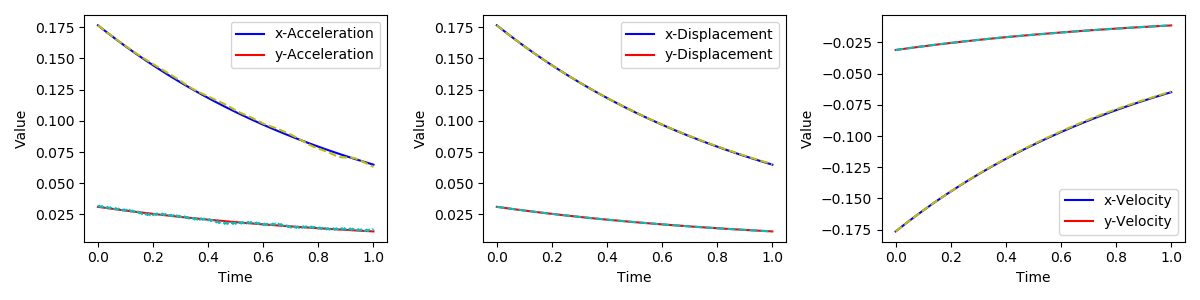
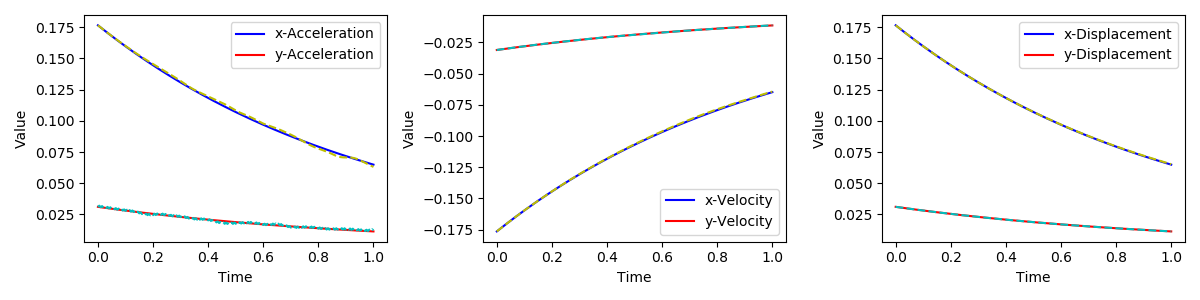
update doc

diff --git a/docs/src/tu_customop.md b/docs/src/tu_customop.md
@@ -1,4 +1,4 @@
-# Custom Operators
+# Advanced: Custom Operators
 
 !!! note
     As a reminder, there are many built-in custom operators in `deps/CustomOps` and they are good resources for understanding custom operators. The following is a step-by-step instruction on how custom operators are implemented. 
@@ -115,34 +115,14 @@ It is recommended that you use the `cmake`, `make` and `gcc` provided by `ADCME`
 | `ADCME.CMAKE` | Cmake binary location                 |
 | `ADCME.MAKE`  | Make binary location                  |
 
-- Make a `build` directory in bash.
-```bash
-mkdir build
-cd build
-```
-- Configure `CMakeLists.txt` files.
-```bash
-cmake ..
-```
-or use a safer way 
+ADCME will properly handle the environment variable for you. So we always recommend you to compile custom operators using ADCME functions:
+
+First `cd` into your custom operator director (where `CMakeLists.txt` is located), create a directory `build` if it doesn't exist, `cd` into `build`, and do 
+
 ```julia-repl
 julia> using ADCME
 julia> ADCME.cmake()
 ```
-This step requires `Conda` and `PyCall` be properly installed. Try the following if necessary
-```julia
-julia> pkg
-pkg> add Conda
-pkg> add PyCall
-```
-- Build. 
-```bash
-make -j
-```
-
-!!! note
-    If the system `make` or `cmake` command is not compatible, try the pre-installed ADCME `make` located at `ADCME.MAKE` or `cmake` located at `ADCME.CMAKE`. 
-
 Based on your operation system, you will create `libMySparseSolver.{so,dylib,dll}`. This will be the dynamic library to link in `TensorFlow`. 
 
 **Step 4: Test**
@@ -151,13 +131,8 @@ Finally, you could use `gradtest.jl` to test the operator and its gradients (spe
 
 ![custom_op](assets/custom_op.png)
 
-
 !!! info 
-    If the process fails, it is most probable the GCC compiler is not compatible with which was used to compile `libtensorflow_framework.{so,dylib}`. Using the built-in `cmake` and `make` will alleviate this problem in most cases. In the Linux system, you can check the compiler using 
-```bash
-readelf -p .comment libtensorflow_framework.so
-```
-Compatibility issues are frustrating. We hope you can submit an issue to ADCME developers; we are happy to resolve the compatibility issue and improve the robustness of ADCME.
+    If the process fails, it is most probable the GCC compiler is not compatible with which was used to compile `libtensorflow_framework.{so,dylib}`. ADCME downloads a  GCC compiler via Conda for you. However, if you follow the above steps but encounter some problems, we are happy to resolve the compatibility issue and improve the robustness of ADCME. Submitting an issue is welcome.
 
 
 ## GPU Operators
@@ -310,8 +285,6 @@ The output is
 ```
 We can see that the tensors depending on `u` are also aware of the assign operator. The complete programs can be downloaded here: [CMakeLists.txt](https://kailaix.github.io/ADCME.jl/dev/codes/mutable/CMakeLists.txt), [MyAssign.cpp](https://kailaix.github.io/ADCME.jl/dev/codes/mutable/MyAssign.cpp), [gradtest.jl](https://kailaix.github.io/ADCME.jl/dev/codes/mutable/gradtest.jl).
 
-
-
 ### Third-party Plugins
 
 ADCME also allows third-party custom operators hosted on Github. To build your own custom operators, implement your own custom operators in a Github repository. The root directory of the repository should have the following files
@@ -345,3 +318,47 @@ op = load_system_op("OTNetwork")
 ```
 
 1. https://on-demand.gputechconf.com/ai-conference-2019/T1-3_Minseok%20Lee_Adding%20custom%20CUDA%20C++%20Operations%20in%20Tensorflow%20for%20boosting%20BERT%20Inference.pdf)
+
+
+
+## Troubleshooting
+
+Here are some common errors you might encounter during custom operator compilation:
+
+**Q: The cmake output for the Julia path is empty.**
+
+```text
+Julia=
+```
+
+**A:** Check whether `which julia` outputs the Julia location you are using. 
+
+**Q: The cmake output for Python path, Eigen path, etc., is empty.**
+
+```text
+Python path=
+EIGEN_INC=
+TF_INC=
+TF_ABI=
+TF_LIB_FILE=
+```
+
+**A:** Update ADCME to the latest version and check whether or not the ADCME compiler string is empty
+
+```julia
+using ADCME
+ADCME.__STR__
+```
+
+**Q: Julia package precompilation errors that seem not linked to ADCME.**
+
+**A:** Remove the corresponding packages using `using Pkg; Pkg.rm(XXX)` and reinstall those packages. 
+
+**Q: Precompilation error linked to ADCME**
+
+```text
+ERROR: LoadError: ADCME is not properly built; run `Pkg.build("ADCME")` to fix the problem.
+```
+
+**A:** Build ADCME using `Pkg.build("ADCME")`. Exit Julia and open Julia again. Check whether `deps.jl` exists in the `deps` directory of your Julia package (optional).
+

diff --git a/docs/src/alphascheme.md b/docs/src/alphascheme.md
@@ -154,7 +154,7 @@ function plot_traj(idx)
     xlabel("Time")
     ylabel("Value")
 
-    subplot(132)
+    subplot(133)
     plot((0:NT)*Δt, u1.(x[idx], y[idx],(0:NT)*Δt), "b-", label="x-Displacement")
     plot((0:NT)*Δt, d_[:,idx], "y--", markersize=2)
   	plot((0:NT)*Δt, u2.(x[idx], y[idx],(0:NT)*Δt), "r-", label="y-Displacement")
@@ -163,7 +163,7 @@ function plot_traj(idx)
     xlabel("Time")
     ylabel("Value")
 
-    subplot(133)
+    subplot(132)
     plot((0:NT)*Δt, -u1.(x[idx], y[idx],(0:NT)*Δt), "b-", label="x-Velocity")
     plot((0:NT)*Δt, u_[:,idx], "y--", markersize=2)
   	plot((0:NT)*Δt, -u2.(x[idx], y[idx],(0:NT)*Δt), "r-", label="y-Velocity")
@@ -203,7 +203,6 @@ Using the above code, we plot the trajectories of $\mathbf{a}$, $\mathbf{v}$, an
 Here is a script for demonstrating how to impose the Dirichlet boundary condition
 
 ```julia
-# exp(-t)*(2-x)*x*(1-y)
 using Revise
 using ADCME
 using PoreFlow 
@@ -212,7 +211,7 @@ using PyPlot
 n = 20
 m = 2n
 NT = 200
-ρ = 0.0
+ρ = 0.5
 Δt = 1/NT 
 h = 1/n
 x = zeros((m+1)*(n+1))
@@ -227,21 +226,22 @@ end
 bd = bcnode("all", m, n, h)
 
 u1 = (x,y,t)->exp(-t)*(0.5-x)^2*(2-y)^2
-u2 = (x,y,t)->exp(-t)*(0.5-x^2)^2*(2-sin(y))^2
+u2 = (x,y,t)->exp(-t)*(0.5-x)*(0.5-y)
 
 ts = Δt * ones(NT)
 dt = αscheme_time(ts, ρ = ρ )
 F = zeros(NT, 2(m+1)*(n+1))
 for i = 1:NT 
     t = dt[i] 
-    f1 = (x,y)->-9.87654320987654*x*(0.5 - x^2)*(2 - sin(y))*exp(-t)*cos(y) + (0.5 - x)^2*(2 - y)^2*exp(-t) - 0.740740740740741*(0.5 - x)^2*exp(-t) - 3.20987654320988*(2 - y)^2*exp(-t)
-  	f2 = (x,y)->-2.96296296296296*x^2*(2 - sin(y))^2*exp(-t) + (0.5 - x^2)^2*(2 - sin(y))^2*exp(-t) - 3.20987654320988*(0.5 - x^2)^2*(2 - sin(y))*exp(-t)*sin(y) - 3.20987654320988*(0.5 - x^2)^2*exp(-t)*cos(y)^2 + 1.48148148148148*(0.5 - x^2)*(2 - sin(y))^2*exp(-t) - (0.740740740740741*x - 0.37037037037037)*(2*y - 4)*exp(-t) - (2*x - 1.0)*(1.72839506172839*y - 3.45679012345679)*exp(-t)
+    f1 = (x,y)->((x - 0.5)^2*(y - 2)^2 - 0.740740740740741*(x - 0.5)^2 - 3.20987654320988*(y - 2)^2 - 1.23456790123457)*exp(-t)
+  	f2 = (x,y)->(-3.93827160493827*x*y + 9.37654320987654*x + 1.96913580246914*y - 4.68827160493827)*exp(-t)
     fval1 = eval_f_on_gauss_pts(f1, m, n, h)
   	fval2 = eval_f_on_gauss_pts(f2, m, n, h)
     F[i,:] = compute_fem_source_term(fval1, fval2, m, n, h)
 end
 
 abd = zeros(NT, (m+1)*(n+1)*2)
+dt = αscheme_time(ts, ρ = ρ )
 for i = 1:NT 
     t = dt[i]
     abd[i,:] = [(@. u1(x, y, t)); (@. u2(x, y, t))] 
@@ -290,7 +290,7 @@ function plot_traj(idx)
     xlabel("Time")
     ylabel("Value")
 
-    subplot(132)
+    subplot(133)
     plot((0:NT)*Δt, u1.(x[idx], y[idx],(0:NT)*Δt), "b-", label="x-Displacement")
     plot((0:NT)*Δt, d_[:,idx], "y--", markersize=2)
   	plot((0:NT)*Δt, u2.(x[idx], y[idx],(0:NT)*Δt), "r-", label="y-Displacement")
@@ -299,7 +299,7 @@ function plot_traj(idx)
     xlabel("Time")
     ylabel("Value")
 
-    subplot(133)
+    subplot(132)
     plot((0:NT)*Δt, -u1.(x[idx], y[idx],(0:NT)*Δt), "b-", label="x-Velocity")
     plot((0:NT)*Δt, u_[:,idx], "y--", markersize=2)
   	plot((0:NT)*Δt, -u2.(x[idx], y[idx],(0:NT)*Δt), "r-", label="y-Velocity")
@@ -399,14 +399,14 @@ function plot_traj(idx)
     xlabel("Time")
     ylabel("Value")
 
-    subplot(132)
+    subplot(133)
     plot((0:NT)*Δt, uexact.(x[idx], y[idx],(0:NT)*Δt), "-", label="Displacement")
     plot((0:NT)*Δt, d_[:,idx], "--", markersize=2)
     legend()
     xlabel("Time")
     ylabel("Value")
 
-    subplot(133)
+    subplot(132)
     plot((0:NT)*Δt, -uexact.(x[idx], y[idx],(0:NT)*Δt), "-", label="Velocity")
     plot((0:NT)*Δt, u_[:,idx], "--", markersize=2)
     legend()

diff --git a/docs/src/tutorial.md b/docs/src/tutorial.md
@@ -32,9 +32,9 @@ The tutorial does not assume readers with experience in deep learning. However, 
 
 [Advanced: Automatic Differentiation for Implicit Operations](./tu_implicit.md)
 
-Advanced: Custom Operators 
+[Advanced: Custom Operators](./tu_customop.md)
 
-Advanced: Debugging 
+[Advanced: Debugging](./tu_debug.md)
 
 [Exercise](./exercise.md)[^exercise]
 
